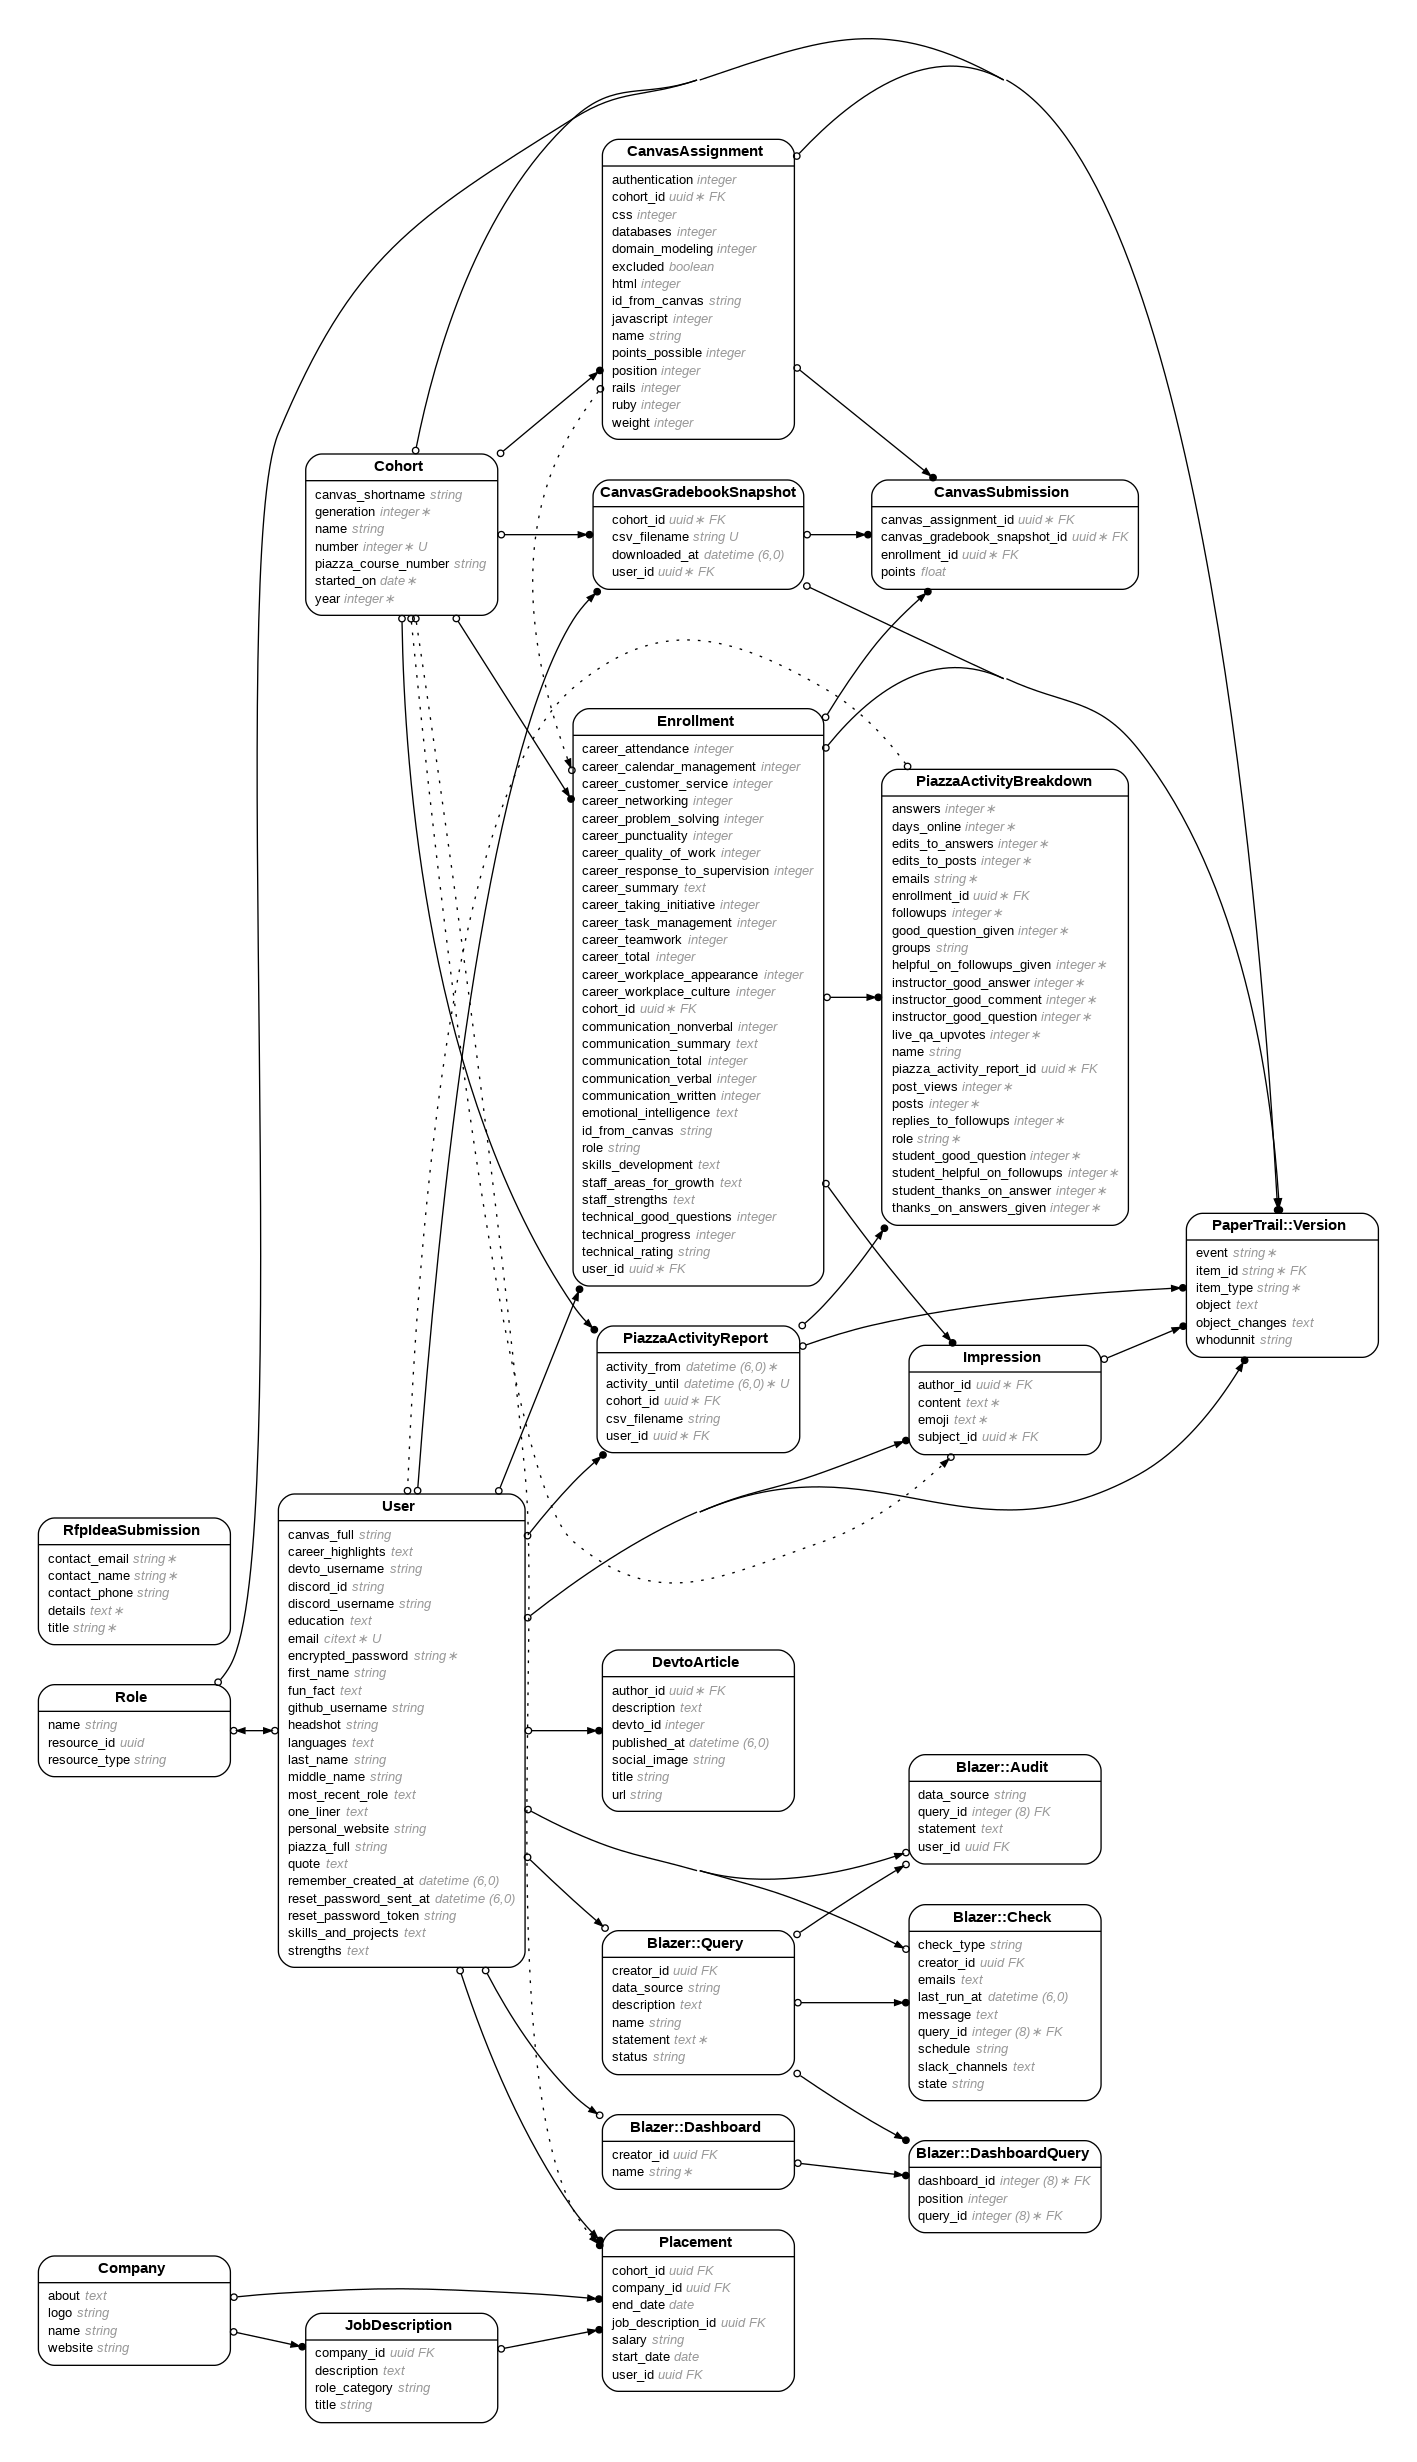
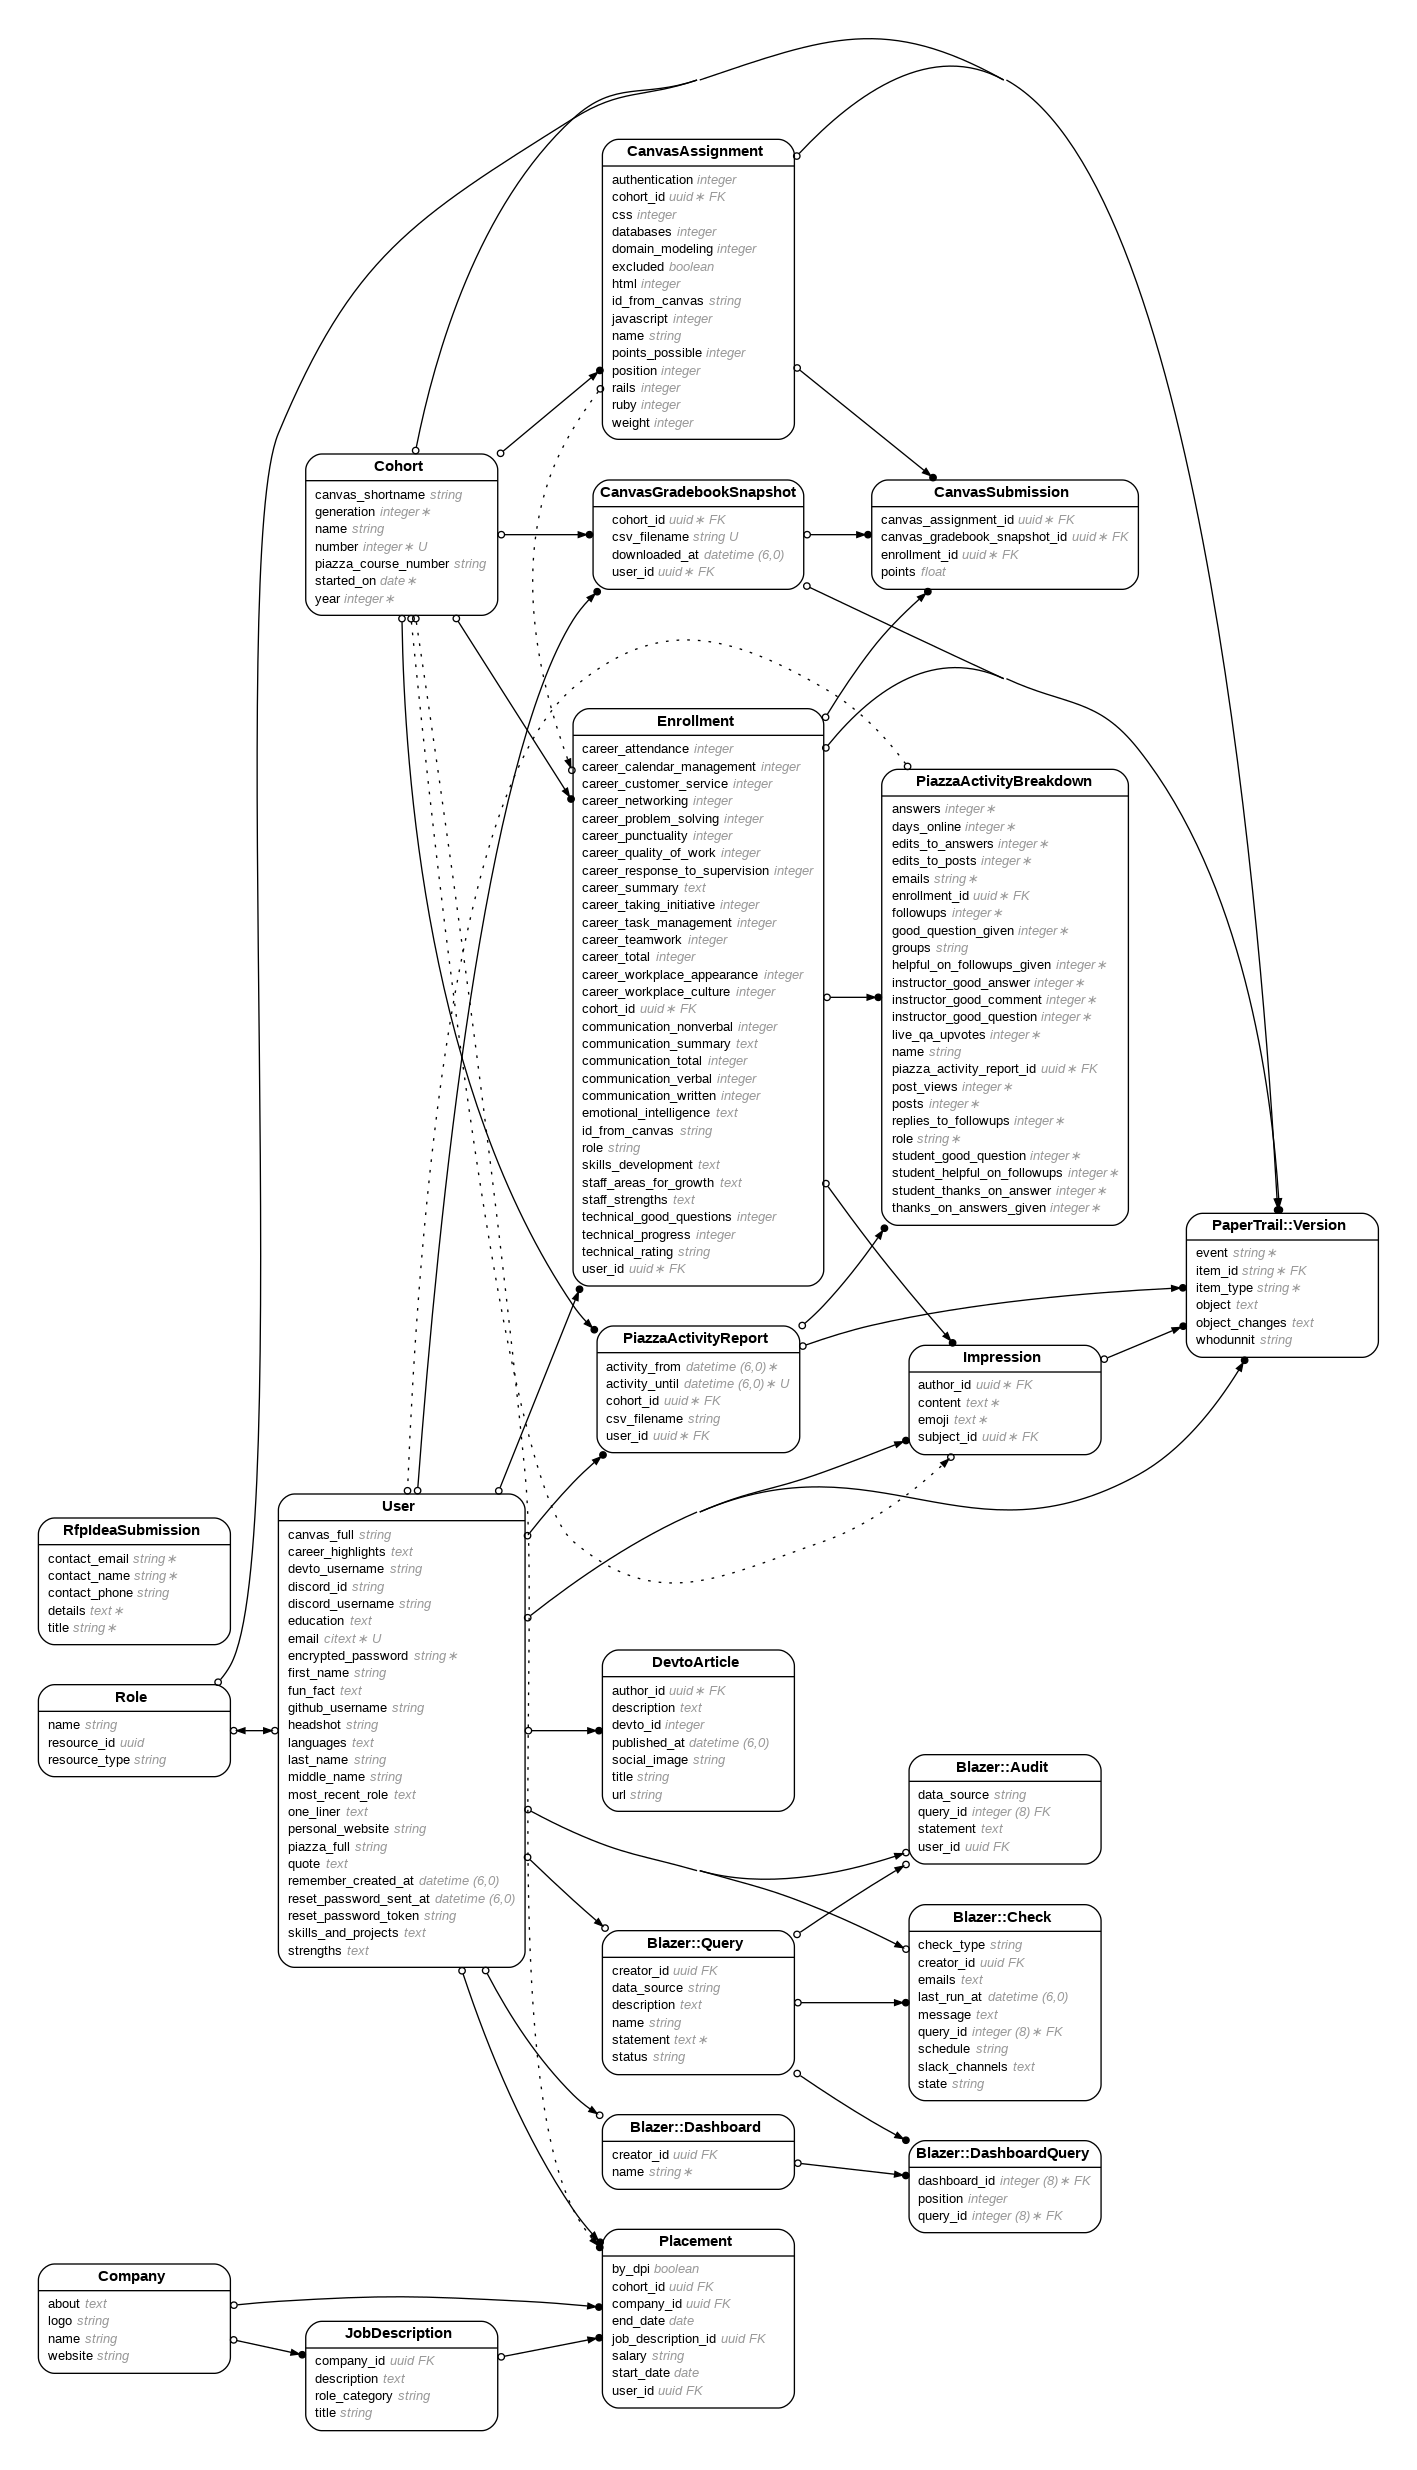
cleaned up partials, added .by_dpi column and visual for it

diff --git a/app/assets/stylesheets/snapshot.scss b/app/assets/stylesheets/snapshot.scss
@@ -2,3 +2,49 @@
   max-height: 800px;
   overflow: hidden;
 }
+
+.headshot-bound-mini {
+  display: flex;
+  justify-content: center;
+  align-items: center;
+  max-width: 100%;
+  max-height: 100%;
+  overflow: hidden;
+  border-radius: 2%;
+
+  width: 250px;
+  height: 350px;
+
+  @media (max-width: 1200px) {
+    width: 200px;
+    height: 280px;
+  }
+
+  @media (max-width: 768px) {
+    width: 150px;
+    height: 210px;
+  }
+
+  @media (max-width: 576px) {
+    width: 100px;
+    height: 140px;
+  }
+
+  img {
+    width: 100%;
+    height: 100%;
+    object-fit: cover;
+  }
+}
+
+.headshot-bound-thumb {
+  width: 100%; /* Fills the width of the parent column */
+  height: auto; /* Maintains aspect ratio based on width */
+  max-width: 100%; /* Ensures it doesn’t exceed parent width */
+  aspect-ratio: 1 / 1; /* Forces a 1:1 aspect ratio, keeping it circular */
+  overflow: hidden;
+  object-fit: cover; /* Resize and crop the image */
+  object-position: 50% 50%; /* Centers the image */
+  padding: 0.25rem;
+  border-radius: 50%; /* Makes it a circle */
+}

diff --git a/app/assets/stylesheets/color.scss b/app/assets/stylesheets/color.scss
@@ -46,3 +46,9 @@
   --bs-text-opacity: 1;
   color: var(--terminal-green) !important;
 }
+
+.dpi-badge {
+  border-radius: 30%;
+  width: 80px;
+  height: 40px;
+}

diff --git a/db/schema.rb b/db/schema.rb
@@ -10,7 +10,7 @@
 #
 # It's strongly recommended that you check this file into your version control system.
 
-ActiveRecord::Schema[7.0].define(version: 2024_10_10_181133) do
+ActiveRecord::Schema[7.0].define(version: 2024_11_08_190955) do
   # These are extensions that must be enabled in order to support this database
   enable_extension "citext"
   enable_extension "pgcrypto"
@@ -263,6 +263,7 @@ ActiveRecord::Schema[7.0].define(version: 2024_10_10_181133) do
     t.string "salary"
     t.datetime "created_at", null: false
     t.datetime "updated_at", null: false
+    t.boolean "by_dpi", default: true
   end
 
   create_table "rfp_idea_submissions", id: :uuid, default: -> { "gen_random_uuid()" }, force: :cascade do |t|

diff --git a/app/models/placement.rb b/app/models/placement.rb
@@ -3,6 +3,7 @@
 # Table name: placements
 #
 #  id                 :uuid             not null, primary key
+#  by_dpi             :boolean          default(TRUE)
 #  end_date           :date
 #  salary             :string
 #  start_date         :date

diff --git a/db/migrate/20241108190955_add_by_dpi_to_placements.rb b/db/migrate/20241108190955_add_by_dpi_to_placements.rb
@@ -1,0 +1,5 @@
+class AddByDpiToPlacements < ActiveRecord::Migration[7.0]
+  def change
+    add_column :placements, :by_dpi, :boolean, default: true
+  end
+end
